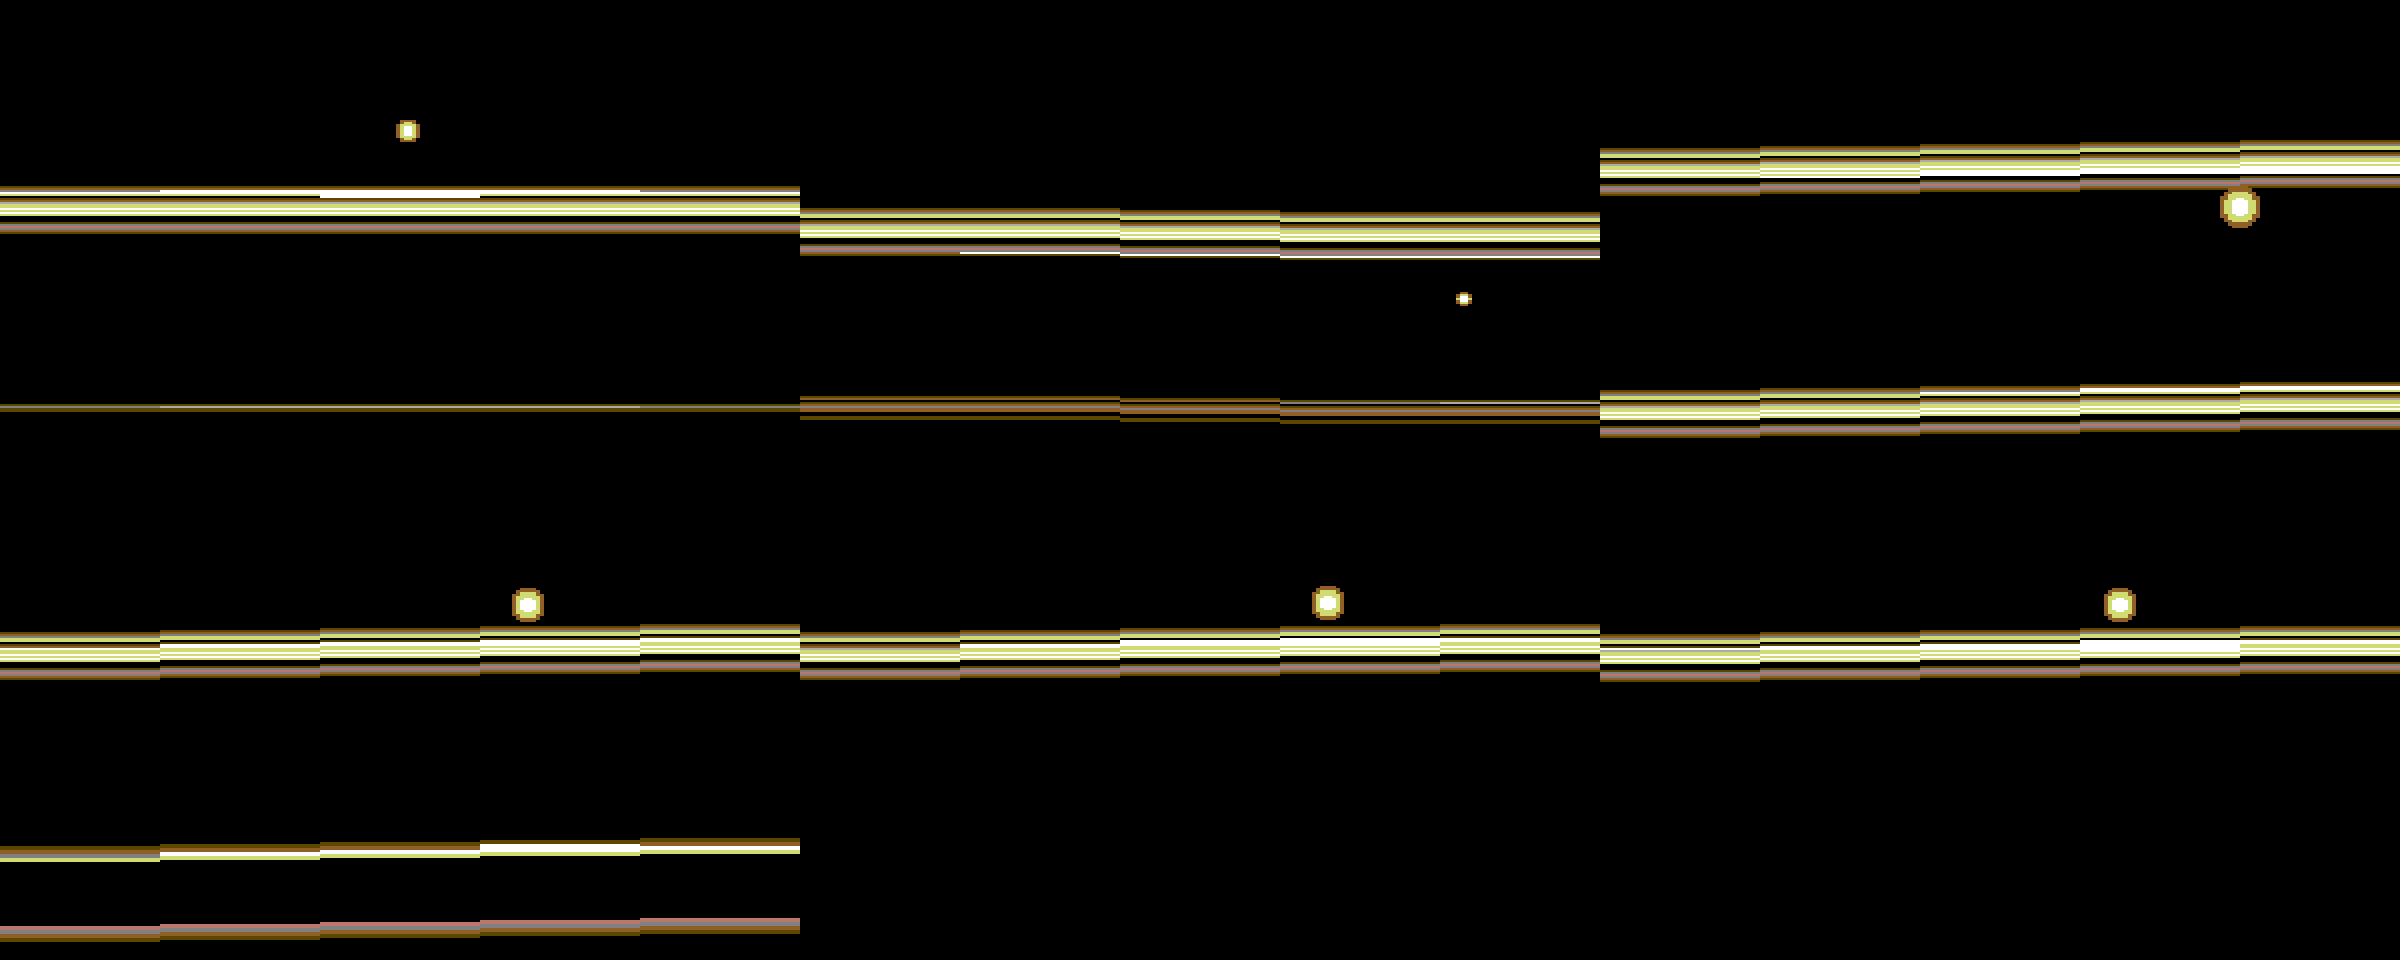
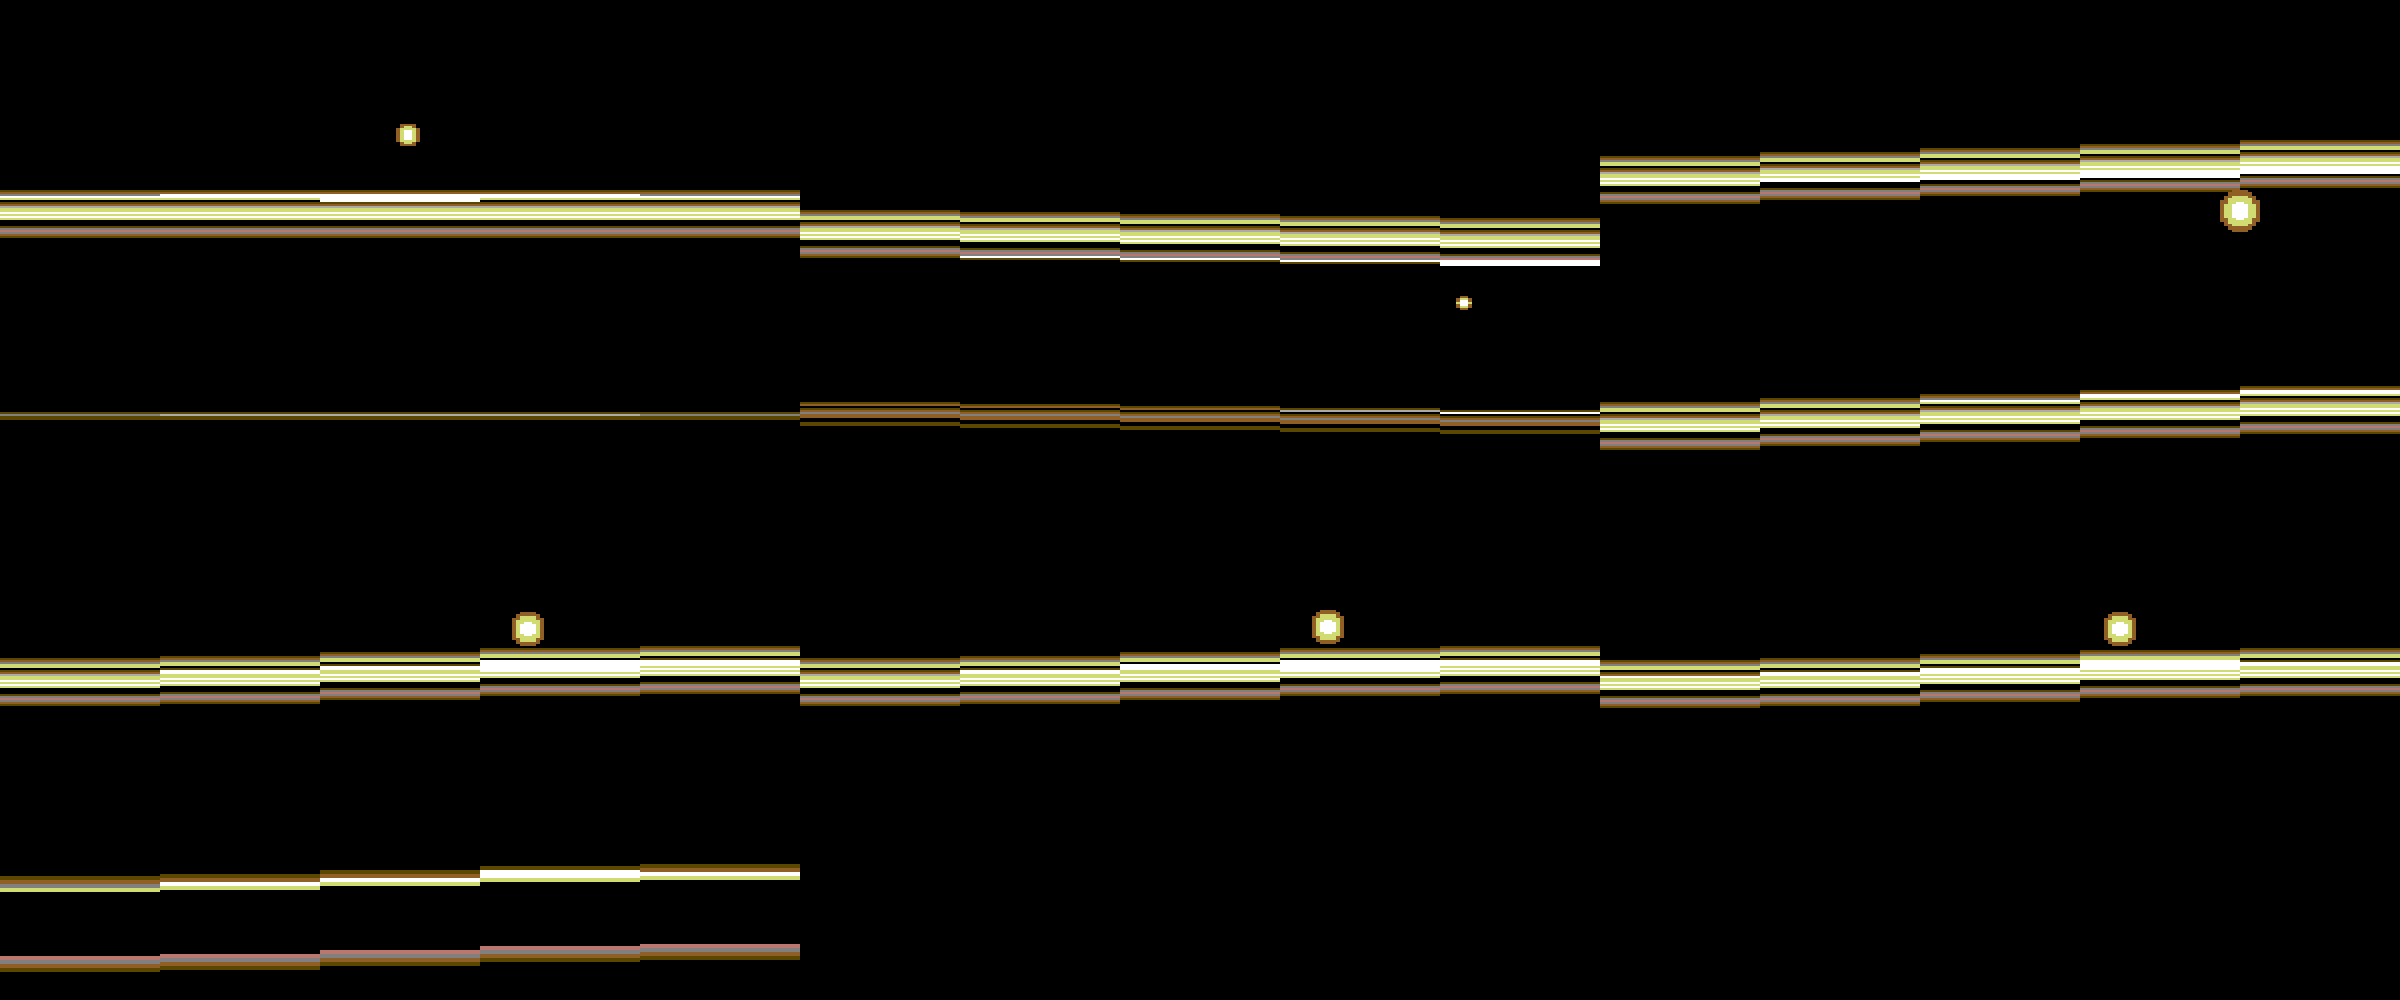
GOLDTWIN: steeper tilt, up to 2 lines between neighbouring segments
Both bars now slant with off_k = round(4 + (k-2)*2*sin(tilt)), 0..8
across the 5 segments. Black padding grows to 8 rows; bar A has 33
display rows and bar B 56. Bar B moves to line 231 so the ball (now
reaching line 228) never touches it; its last row is line 286. Also
fixes the init clearing only half of bar A's column memory.

Claude-Session: https://claude.ai/code/session_01XRP7YWTXV6rxeodyPouCbG

diff --git a/c64-raybars/sim_goldtwin.py b/c64-raybars/sim_goldtwin.py
@@ -15,10 +15,10 @@ from PIL import Image
 
 HERE = os.path.dirname(os.path.abspath(__file__))
 FRAMES = 512
-ROWS, ROWSB, SEGS, SEGSIZE, ROWSIZE = 29, 52, 5, 8, 47
+ROWS, ROWSB, SEGS, SEGSIZE, ROWSIZE = 33, 56, 5, 8, 47
 BMAXROWS = 48
-SEGW, DENLINE, STEAL, BTOP = 80, 44, 4, 229
-TOP, BOTTOM = 50, 290
+SEGW, DENLINE, STEAL, BTOP = 80, 44, 4, 231
+TOP, BOTTOM = 50, 300
 OP_BCS, OP_BCC = 0xB0, 0x90
 LINE = 63
 IRQTOP_LINES = 6                # top IRQ: line 44 until DEN is back at 49
@@ -138,7 +138,7 @@ front, behind = [], []
 for fr in frames:
     gb, bh, dzb, hl = fr[2], fr[6], fr[9], fr[10]
     if bh >= 8 and hl:
-        top = (BMAXROWS - bh) // 2
+        top = (BMAXROWS - bh) // 2 + 4   # + the average slant offset
         c = sum((r - top) / bh for r, k in hl) / len(hl)
         (front if dzb > 0 else behind).append(c)
 print(f"bar B highlight centre (0 = top, 1 = bottom): light in front of it "

diff --git a/c64-raybars/gen_tables.py b/c64-raybars/gen_tables.py
@@ -298,6 +298,16 @@ for name, data in (("bhtab", bh), ("bcliptab", bclip), ("blevtab", blev),
     out.append(f"{name}:")
     for i in range(0, len(data), 16):
         out.append("        .byte " + ",".join(f"${b:02x}" for b in data[i:i + 16]))
+# goldtwin's steeper tilt: neighbouring segments up to 2 lines apart.
+# off_k = round(4 + (k - 2) * 2 * sin(tilt)), 0..8; stored as 8 - off_k.
+for k in range(5):
+    col = []
+    for a in range(256):
+        off = int(math.floor(4 + (k - 2) * 2 * math.sin(rad(a)) + 0.5))
+        col.append(8 - max(0, min(8, off)))
+    out.append(f"tkbase{k}:")
+    for i in range(0, 256, 16):
+        out.append("        .byte " + ",".join(f"${b:02x}" for b in col[i:i + 16]))
 with open(os.path.join(here, "twin.inc"), "w") as f:
     f.write("\n".join(out) + "\n")
 print("wrote twin.inc")

diff --git a/c64-raybars/README.md b/c64-raybars/README.md
@@ -209,6 +209,12 @@ cl65 -t none -C raybars.cfg -o goldtwin.prg goldtwin.s
 python3 sim_goldtwin.py      # needs -g -Ln goldtwin.lbl; renders preview_goldtwin.gif
 ```
 
+* **Steeper tilt.** Neighbouring segments can be up to 2 lines apart:
+  `off_k = round(4 + (k - 2) * 2 * sin(tilt))`, 0..8 across the 5
+  segments. The padding grows to 8 black rows, bar A to 33 display rows
+  and bar B to 56. Bar B starts at line 231 so the ball, now reaching line
+  228, still never touches it. Bar B's last row is line 286, at the bottom
+  edge of PAL's visible area.
 * **Perspective.** The bar's depth z goes linearly from 6 to 1, and its
   height on screen is 48/z. It appears 8 lines tall, speeds up as it
   nears, and reaches 48 lines.
@@ -240,11 +246,11 @@ python3 sim_goldtwin.py      # needs -g -Ln goldtwin.lbl; renders preview_goldtw
   line feeds each row, and only lit rows are visited. The white is written
   straight into bar B's speedcode through a table of row addresses.
 * **Main loop instead of IRQs.** The interrupts only draw: the badline
-  trick at line 44, bar A, and bar B from line 229. The main loop starts
+  trick at line 44, bar A, and bar B from line 231. The main loop starts
   the next sprite and bar A as soon as bar A has been drawn (bar B's IRQ
   cuts in), and the next bar B once bar B has been drawn. Worst cases are
-  18% (sprite, before line 44), 56% (bar A, before its IRQ) and 74% (bar B,
-  before line 227) of each deadline window.
+  18% (sprite, before line 44), 60% (bar A, before its IRQ) and 81% (bar B,
+  before line 229) of each deadline window.
 * **No timing patch for bar B.** The ball never goes below line 226, so it
   never steals cycles inside bar B.
 * **VIC bank 2.** The program outgrew VIC bank 0's free space, so the VIC
